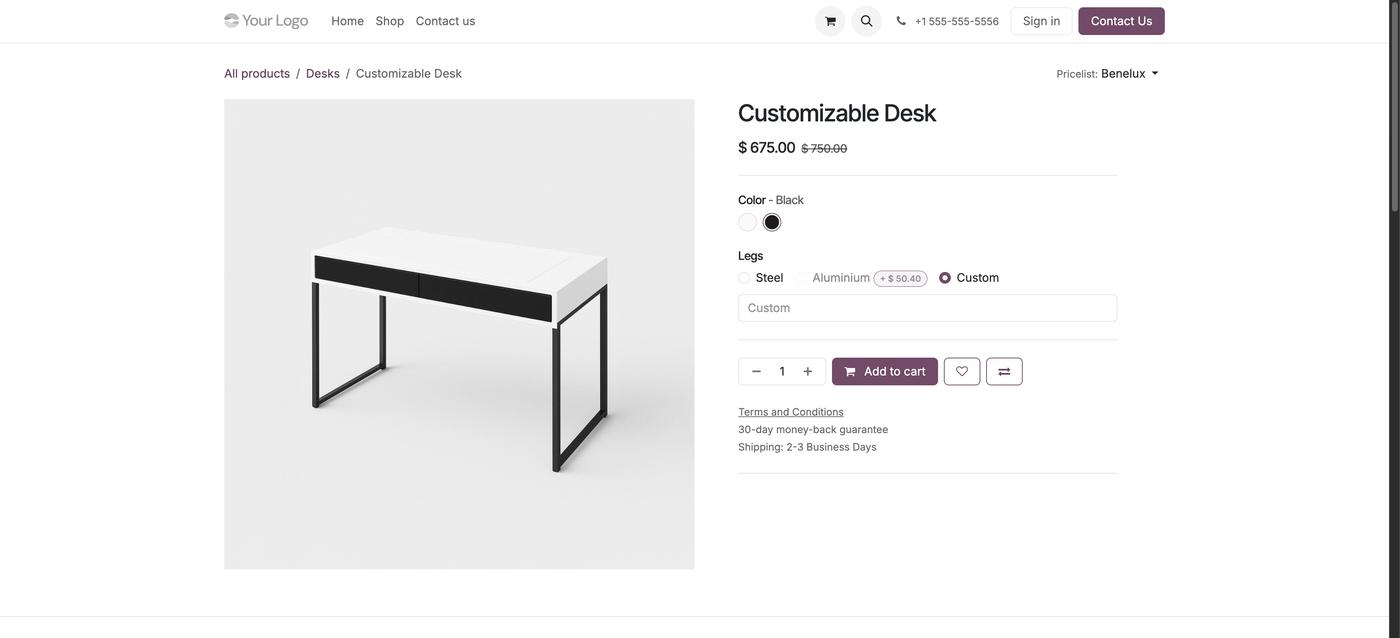
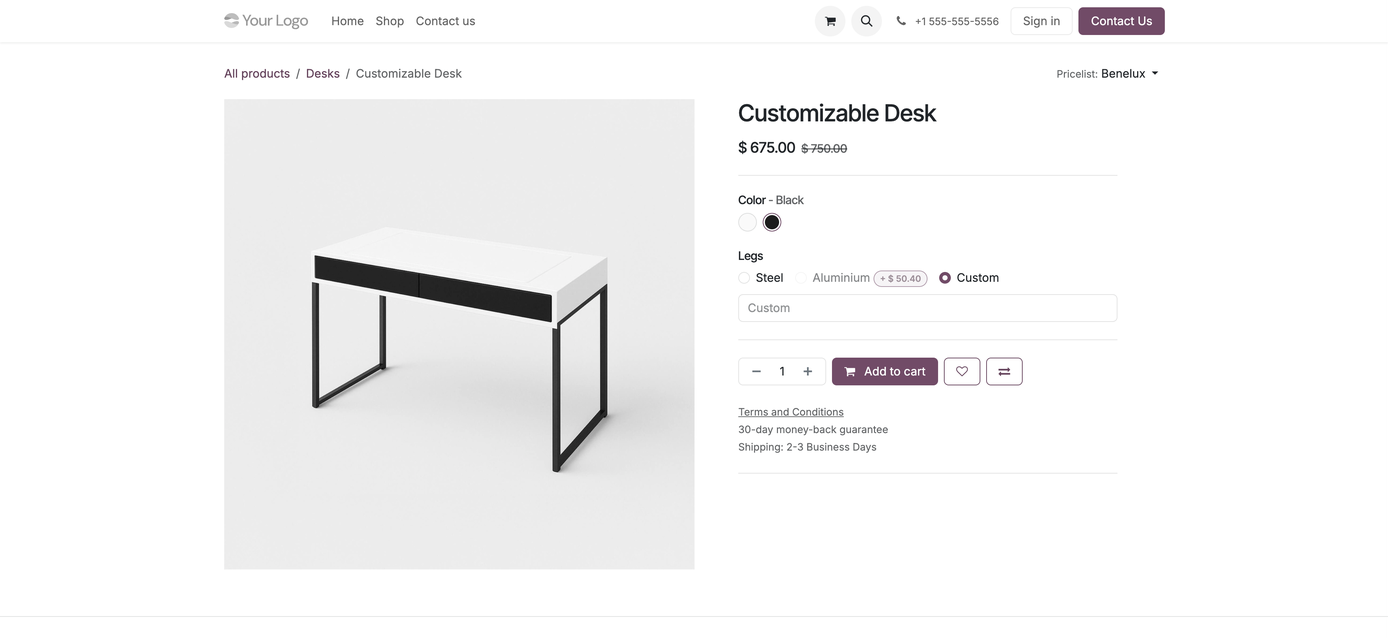
[IMP] product_qr_track: restore 2-column features layout, refresh landing screenshot

diff --git a/product_qr_track/static/description/index.html b/product_qr_track/static/description/index.html
@@ -115,7 +115,7 @@
       <p style="color:#7C8288; margin-bottom:32px">Two feature sets, working together on every product.</p>
 
       <div class="row">
-        <div class="col-12 mb-4">
+        <div class="col-md-6 col-12 mb-4">
           <div style="border-top:2px solid #FFA500; padding-top:12px">
             <h3 style="font-size:16px; font-weight:700; color:#010101; margin-bottom:14px">Capture customer analytics</h3>
             <div class="d-flex" style="margin-bottom:12px">
@@ -141,7 +141,7 @@
           </div>
         </div>
 
-        <div class="col-12 mb-4">
+        <div class="col-md-6 col-12 mb-4">
           <div style="border-top:2px solid #FFA500; padding-top:12px">
             <h3 style="font-size:16px; font-weight:700; color:#010101; margin-bottom:14px">A QR template, everywhere you need it</h3>
             <div class="d-flex" style="margin-bottom:12px">
